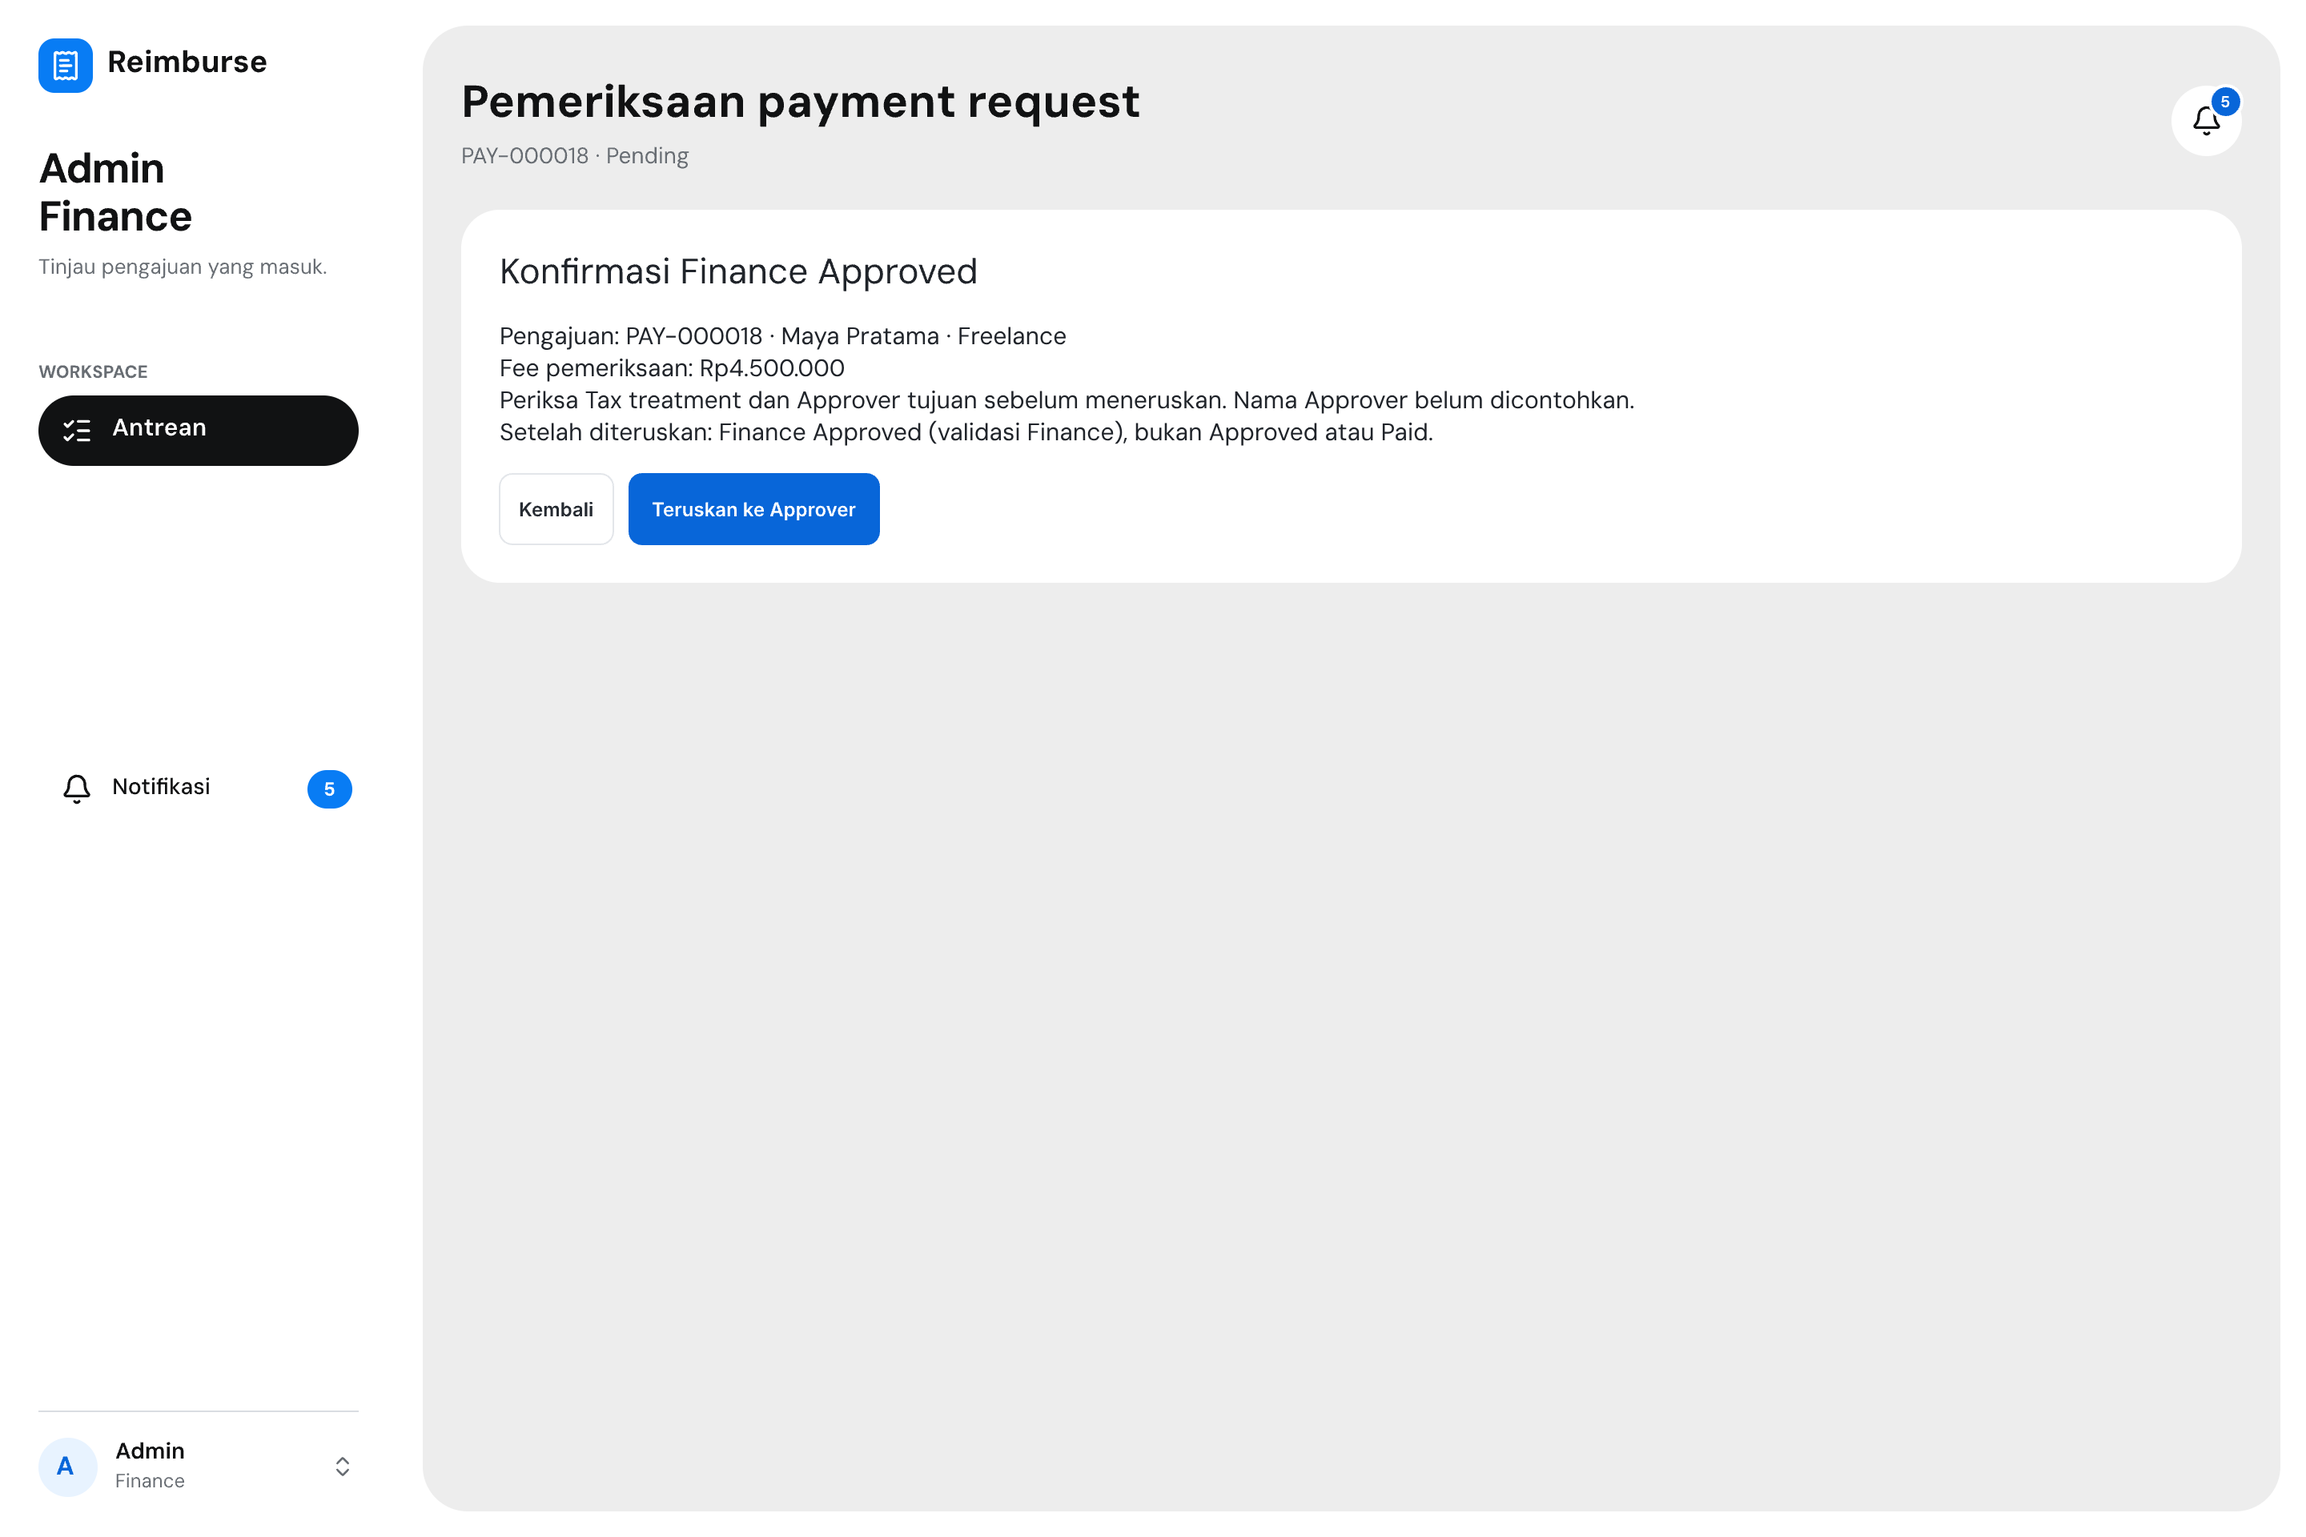
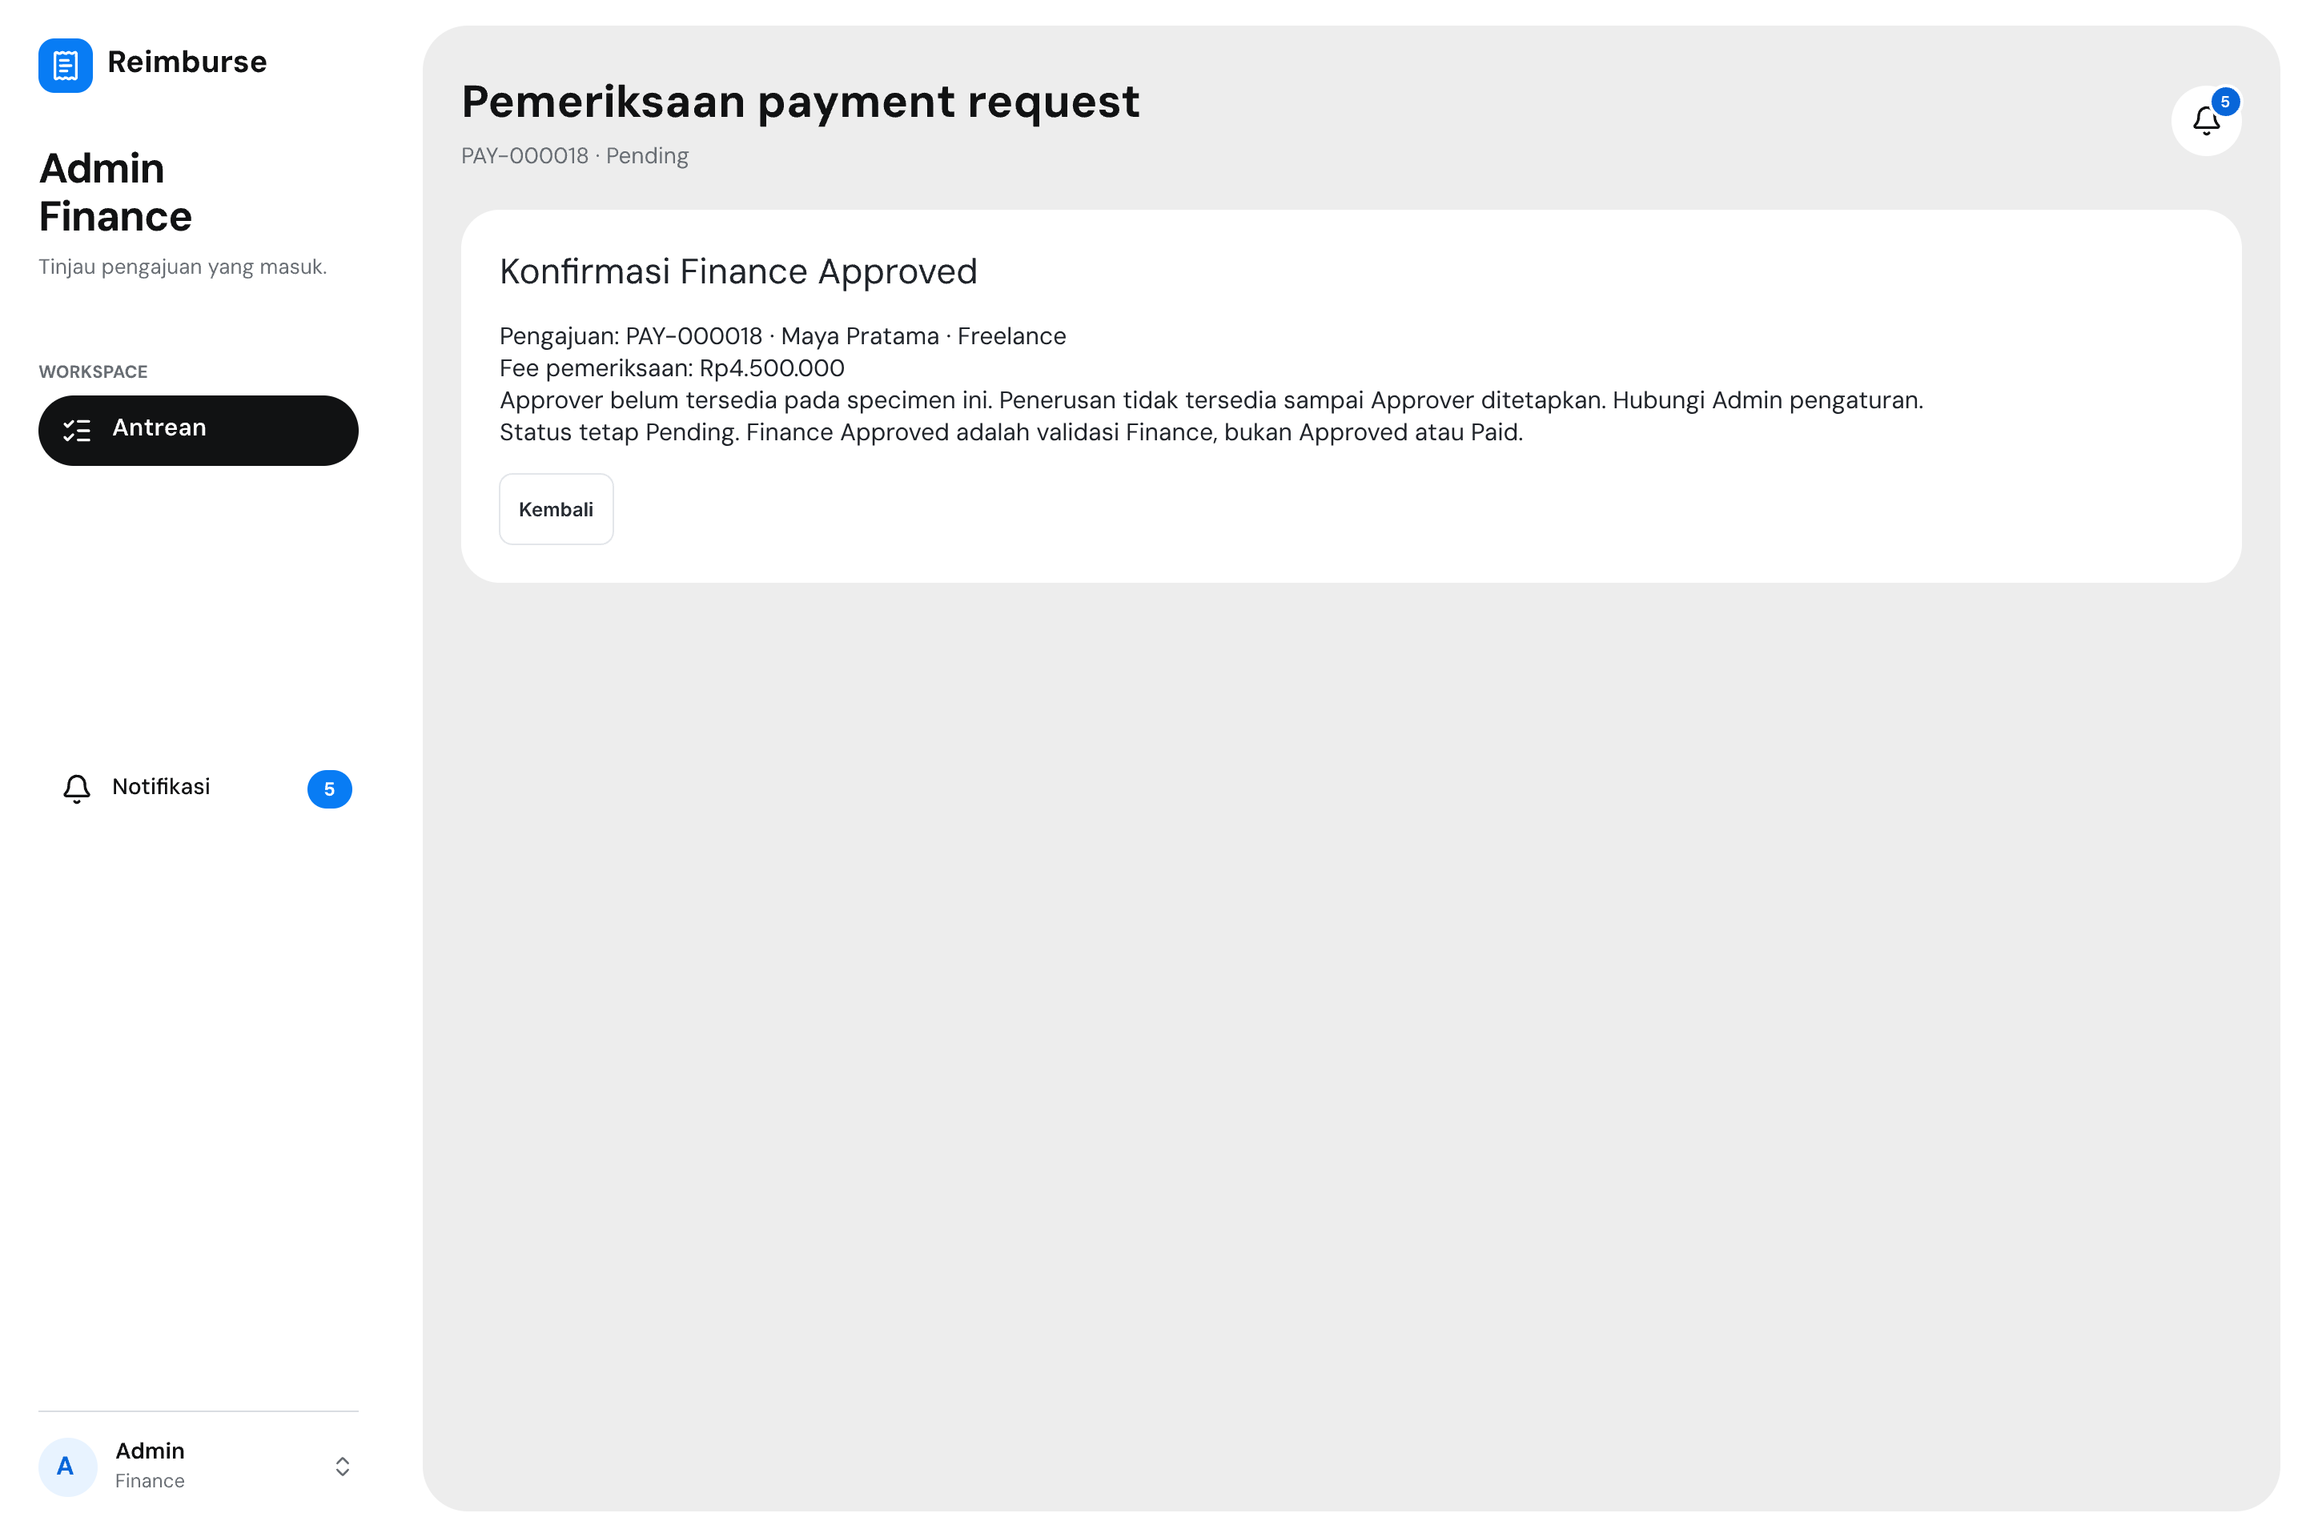
fix(design): refresh PG-08 galleries and gate forwarding

Changed region(s): [[0.2188, 0.25, 0.8125, 0.375]]

diff --git a/design/png/admin-finance-review/README.md b/design/png/admin-finance-review/README.md
@@ -4,12 +4,56 @@ PG-06 is **Ready for Owner Review**, not Approved. PG-04 queue and PG-10 remain 
 
 ## PG-08 Admin Finance: patch teks/state
 
[2 lines of base64/hex data omitted]
+
+### Koreksi lanjutan PR #19: galeri dan gate Approver
+
+Koreksi ini berangkat dari HEAD `f142a49062c68737f6ac62c3b031c954f914ad33` pada branch yang sama, `design/admin-finance-pg08`. Working tree awal bersih. Tidak membuka branch/PR baru, tidak menyentuh PR #17, tidak merge.
+
+**1. TERBUKTI: artefak galeri basi.** Sebelum koreksi, `zVZZY.png` dan `U6TVT.png` masih byte-identik dengan artefak baseline `main@03d3acb`, sedangkan isi layer editable berubah pada pass pertama PG-08. Riwayat ekspor sebelumnya juga menyatakan kedua galeri belum disegarkan. Ini verifikasi provenance/layer, bukan kesimpulan pembacaan PNG. Contoh teks layer persis:
+- `zVZZY` → frame `iPcOE`, node `P7c7G`: baseline `Field terpilih dibuka untuk Requester; instruksi publik akan dikirim.`; kini `PAY-000018 · Maya Pratama\nField dibuka: Fee dan dokumen. Field lain tidak dibuka.\nInstruksi publik: belum diisi. Kembali dan isi instruksi sebelum meminta Revision.\nSetelah dikirim, status Revision. Catatan internal tidak dikirim ke Requester.` (notasi `\n` adalah pemisah baris).
+- `zVZZY` → frame `WAO0I`, node `v0vcM`: baseline `Nilai lama, nilai baru dan alasan akan dicatat dalam audit.`; kini memuat nilai lama Rp4.500.000 dan baru Rp4.400.000 serta alasan belum diisi, sesuai verifikasi pass pertama di bawah.
+- `zVZZY` → frame `OkzZU`, node `B72Kb`: baseline `Pengajuan yang ditolak tidak dapat diedit. Alasan penolakan akan dicatat.`; kini menyebut PAY-000018, Maya Pratama, alasan belum diisi, dan status Rejected.
+- `U6TVT` → frame `eGvPW`, node `S39Jby`: baseline `Freelance · Fee Rp4.500.000`; kini `PAY-000018\nFreelance · Maya Pratama · Fee Rp4.500.000`.
+- Empat konfirmasi Desktop (`c0W2bn`, `iPcOE`, `WAO0I`, `OkzZU`) memang tile langsung `zVZZY`; `eGvPW` tile langsung `U6TVT`. Pass pertama sebenarnya mengubah tujuh tile Desktop dan satu Narrow, bukan hanya empat tile total.
+
+**2. TERBUKTI: D2GU5 belum diblokir.** Frame `c0W2bn`, node tombol `D2GU5`, source `fFmN2`: sebelum patch properti `enabled` tidak disetel (**true efektif**), `opacity` tidak disetel (**1 efektif**), nama layer persis `Finance Approved`. Label `D2GU5/U7Cbs` persis `Teruskan ke Approver`; `eq2MD.enabled:false` hanya menyembunyikan ikon panah, bukan men-disable tombol. Explanation `y2pz3` sebelumnya persis:
+
+```text
+Pengajuan: PAY-000018 · Maya Pratama · Freelance
+Fee pemeriksaan: Rp4.500.000
+Periksa Tax treatment dan Approver tujuan sebelum meneruskan. Nama Approver belum dicontohkan.
+Setelah diteruskan: Finance Approved (validasi Finance), bukan Approved atau Paid.
+```
+
+Pembanding PG-06 `PRHXV/O8SGI4` persis `Penerusan tidak tersedia karena Approver belum ditetapkan. Hubungi Admin pengaturan.`; tidak ada tombol penerusan tampil pada frame itu. Nama yang belum dicontohkan bukan bukti konfigurasi runtime kosong. Sesuai permintaan owner, koreksi menyatakan kondisi unavailable secara eksplisit **pada specimen** dan menerapkan gate-nya, bukan mengarang nama Approver.
+
+Hanya **dua stored nodes diubah**:
+- `D2GU5`: `enabled:false`, `opacity:0.45`, nama layer `Teruskan ke Approver · disabled specimen · Approver belum tersedia`. Label tetap `Teruskan ke Approver`. Dalam schema Pen, `enabled:false` berarti node tidak dirender; aksi penerusan tidak tampil, mengikuti PRHXV, bukan sekadar tombol aktif yang diredupkan. Ini bukan bukti disabled/authorization runtime.
+- `y2pz3`, teks sesudah patch persis:
+
+```text
+Pengajuan: PAY-000018 · Maya Pratama · Freelance
+Fee pemeriksaan: Rp4.500.000
+Approver belum tersedia pada specimen ini. Penerusan tidak tersedia sampai Approver ditetapkan. Hubungi Admin pengaturan.
+Status tetap Pending. Finance Approved adalah validasi Finance, bukan Approved atau Paid.
+```
+
+**Komposisi galeri mekanis, tanpa upscale:**
+- Ekspor langsung `zVZZY` pada scale 2 meminta **12320×6480**, tetapi exporter menghasilkan **8192×4309** karena batas 8192px. Hasil capped hanya pengujian temporer, tidak dipakai sebagai tile/heading atau output akhir.
+- `zVZZY.png` akhir **12320×6480**: 12 tile Desktop native **2880×1920** pada posisi `(2x,2y)` dari frame kanvas, ditambah cached heading `PgoGm`, teks `ADMIN FINANCE · PG-08 / Desktop`, native **946×56** pada `(80,60)`.
+- `U6TVT.png` akhir **5800×2100**: dua tile Narrow native **780×1688** pada `(80,200)` dan `(1020,200)`, ditambah cached heading `lftOV`, teks `ADMIN FINANCE · PG-08 / Narrow`, native **922×51** pada `(80,60)`.
+- Tile yang sudah tersedia 2× dipakai langsung dari PNG individual terbaru: `c0W2bn` (setelah patch gate), `iPcOE`, `WAO0I`, `OkzZU`, `HP1TH`, `Y9z8O`, `Z31zwX`, `eGvPW`. Enam tile yang cache-nya masih 1×/belum ada (`L4uNC`, `LjcEB`, `HDq48`, `xpoXz`, `F1maXE`, `QB9Kq`) dan dua heading dirender native 2× ke cache temporer untuk input komposisi saja. PNG individual lain di repo tidak ditimpa/di-commit. Heading lama galeri 0,5× tidak di-upscale.
+- ImageMagick menyusun sRGB RGBA dengan `Copy` pada latar transparan, tanpa operasi resize. Semua **14 crop tile + 2 crop heading** dibandingkan kembali dengan inputnya menggunakan `magick compare -metric AE`: masing-masing **0 (0)**, pixel-identik. Dimensi dan posisi mengikuti schema, bukan tebakan dari PNG.
+
+**Output tambahan yang berubah hanya tiga PNG:** `c0W2bn.png`, `zVZZY.png`, `U6TVT.png`. Galeri tidak lagi historis/basi untuk PG-08. Tidak ada node baru, perubahan source reusable, variabel global, dimensi/layout, atau PG-02/04/06. Bounds konten tampil `c0W2bn` tidak bermasalah; section keputusan diperiksa melalui screenshot live. Fingerprint live/disk dua node dan scope diff diperiksa sebelum commit. Tidak ada perubahan editor tambahan yang ikut di-stage.
+
+Tidak diverifikasi ulang: runtime/API/authorization, persistensi, kalkulasi pajak, keyboard/focus, screen reader, contrast numerik, atau konfigurasi Approver nyata. Kesimpulan enabled-state berasal dari node/schema, bukan PNG.
 
 ### Verifikasi sebelum patch: layer editable, bukan PNG
 
 1. **TERBUKTI: identitas Narrow kurang.** `L4uNC/lin72/kpCLO` = `PAY-000018 · Pending`; `L4uNC/r7hPY` = `Freelance · Maya Pratama · Fee Rp4.500.000`. `eGvPW/S39Jby` hanya `Freelance · Fee Rp4.500.000`. Pembacaan seluruh teks Narrow tidak menemukan nomor pengajuan atau nama penerima: yang hilang dibanding Desktop adalah **PAY-000018** dan **Maya Pratama**, bukan field wajib baru.
-2. **TERBUKTI: konfirmasi Finance Approved umum.** `c0W2bn/y2pz3` = `Validasi Finance selesai. Pengajuan akan diteruskan kepada Approver yang ditetapkan.`; `D2GU5/U7Cbs` = `Finance Approved`. Tidak ada fee pemeriksaan/nama Approver. Pembanding PG-06 `AvxAT`: `Gfoq2` = `Rp1.250.000`; `lEniw` = `Sari A.`; `hOz7b/U7Cbs` = `Teruskan ke Approver`. **TIDAK TERBUKTI** selected fields, nilai lama/baru, dan alasan adalah isi konfirmasi Finance Approved PG-06: itu isi state Revision/koreksi yang berbeda. Patch memperjelas identitas, fee, aksi, serta membedakan validasi Finance dari Approved/Paid. **Nama target Approver PG-08 tetap belum tersedia**, tidak diisi dengan Sari A. dari layanan lain. Copy menyatakan keterbatasan ini; bukan klaim Approver belum terkonfigurasi.
+2. **TERBUKTI: konfirmasi Finance Approved umum.** `c0W2bn/y2pz3` = `Validasi Finance selesai. Pengajuan akan diteruskan kepada Approver yang ditetapkan.`; `D2GU5/U7Cbs` = `Finance Approved`. Tidak ada fee pemeriksaan/nama Approver. Pembanding PG-06 `AvxAT`: `Gfoq2` = `Rp1.250.000`; `lEniw` = `Sari A.`; `hOz7b/U7Cbs` = `Teruskan ke Approver`. **TIDAK TERBUKTI** selected fields, nilai lama/baru, dan alasan adalah isi konfirmasi Finance Approved PG-06: itu isi state Revision/koreksi yang berbeda. Patch memperjelas identitas, fee, aksi, serta membedakan validasi Finance dari Approved/Paid. Pada pass pertama, **nama target Approver PG-08 belum tersedia**, tidak diisi dengan Sari A. dari layanan lain. Koreksi lanjutan di atas kemudian mengubahnya menjadi specimen unavailable dengan gate penerusan eksplisit; bukan klaim konfigurasi runtime.
 3. **TERBUKTI: konfirmasi Revision/Reject umum.** `iPcOE/P7c7G` = `Field terpilih dibuka untuk Requester; instruksi publik akan dikirim.`; tombol `h3Mer/U7Cbs` = `Konfirmasi`. Form `LjcEB/kQ4mR` = `Fee dan dokumen`, berada dalam `UVFMr` (Revision selection), dengan `KEiKJ` (Selected checkbox, icon `square-check`). Namun `xdABN/P9sHXg` = `Jelaskan perubahan yang diminta`, masih placeholder. PG-06 `QdWeP/Iqaqm` = `Invoice dan bukti`, `I7hWfo` = `Mohon unggah invoice yang terbaca jelas.`; instruksi itu tidak dipinjam ke Payment Request. `OkzZU/B72Kb` = `Pengajuan yang ditolak tidak dapat diedit. Alasan penolakan akan dicatat.`; tombol `NGXDk/U7Cbs` = `Konfirmasi`; form `xpoXz/x8wNO/P9sHXg` = `Jelaskan alasan penolakan`, masih placeholder. **TIDAK TERBUKTI** Reject seharusnya membuka field: PRD menyatakan Rejected tidak dapat diedit. Patch menampilkan kelompok yang benar-benar dipilih dan kekosongan instruksi/alasan; tidak mengarang isi publik. Tiga tombol konfirmasi incomplete ditandai disabled secara visual/layer-state saja, bukan runtime controls.
 4. **TIDAK TERBUKTI: rate/nominal pajak karangan pada PG-08 yang diperiksa.** `HDq48/NEjaB` = `Fee contoh Rp4.400.000; pajak dihitung sesuai Tax treatment aktif.`; `L4uNC/FDDBH/orwNG` dan `eGvPW/EdEFJ/orwNG` = `Pilih aturan aktif`. Tidak ditemukan rate persen, nominal pajak, atau net payout fiktif. Rp4.500.000/Rp4.400.000 adalah fee contoh. Tax treatment, rate, kalkulasi, dan gate tidak diubah atau ditambahkan.
 5. **TIDAK TERBUKTI: akses dokumen sensitif diperluas pada specimen PG-08.** `L4uNC/xswZY` = `KTP dan rekening · akses Admin · Lihat sesuai izin`; `AmXSS/GvpjL` = `Lihat KTP / rekening · Admin`. `eGvPW/xzKJL` = `KTP dan rekening · Admin · lihat sesuai izin`; `xjs7l/GvpjL` = `Lihat KTP / rekening · Admin`. `HP1TH/vsRO7`, `Y9z8O/uLxB3`, `Z31zwX/emc6l` memakai teks akses Admin yang sama dengan Desktop; tombol `i9qZ1/GvpjL`, `qlAG8/GvpjL`, `d7bGOE/GvpjL` juga `Lihat KTP / rekening · Admin`. Tidak ada specimen PG-08 Approver/Requester yang memperluas izin tersebut. Tidak ada perubahan akses; authorization runtime belum diuji.
@@ -23,7 +67,7 @@ Temuan tambahan yang **TERBUKTI**:
 | Frame | Node | Hasil |
 | --- | --- | --- |
 | eGvPW | S39Jby | `PAY-000018`, lalu `Freelance · Maya Pratama · Fee Rp4.500.000` pada baris berikutnya |
-| c0W2bn | y2pz3, D2GU5/U7Cbs | Identitas dan Fee Rp4.500.000; periksa Tax treatment/Approver; nama Approver belum dicontohkan; setelah diteruskan Finance Approved (validasi Finance), bukan Approved/Paid; aksi `Teruskan ke Approver` |
+| c0W2bn | y2pz3, D2GU5/U7Cbs; D2GU5 pada koreksi lanjutan | Identitas dan Fee Rp4.500.000; kini Approver unavailable pada specimen dan penerusan diblokir; status tetap Pending. Label aksi tetap `Teruskan ke Approver`, tetapi `D2GU5.enabled:false`; rincian gate di atas |
 | iPcOE | P7c7G, h3Mer/U7Cbs, h3Mer | Identitas, `Field dibuka: Fee dan dokumen. Field lain tidak dibuka.`, instruksi publik belum diisi; setelah dikirim status Revision, catatan internal tidak dikirim; aksi `Minta Revision`, opacity 0.45, nama layer disabled specimen |
 | WAO0I | v0vcM, s8e4r/U7Cbs, s8e4r | Identitas, Fee Rp4.500.000 → Rp4.400.000; alasan belum diisi; koreksi tidak meneruskan, tetap Pending; audit lama/baru/actor/waktu/alasan; aksi `Simpan koreksi`, opacity 0.45, nama layer disabled specimen |
 | OkzZU | B72Kb, NGXDk/U7Cbs, NGXDk | Identitas, alasan penolakan belum diisi; setelah ditolak Rejected/tidak dapat diedit; Reject tidak membuka field Revision; aksi `Tolak pengajuan`, opacity 0.45, nama layer disabled specimen |
@@ -35,7 +79,7 @@ Temuan tambahan yang **TERBUKTI**:
 
 ### Ekspor dan pemeriksaan
 
-Hanya **8 frame berubah** yang diekspor, masing-masing PNG native 2×: [eGvPW](eGvPW.png) (780×1688); [c0W2bn](c0W2bn.png), [iPcOE](iPcOE.png), [WAO0I](WAO0I.png), [OkzZU](OkzZU.png), [HP1TH](HP1TH.png), [Y9z8O](Y9z8O.png), [Z31zwX](Z31zwX.png) (2880×1920). Empat PNG konfirmasi sebelumnya belum ada di paket; frame-nya sudah ada, tidak dibuat ulang. Ekspor lama eGvPW/vendor proof berukuran 1×; ekspor baru dirender native 2×, bukan upscale PNG lama. `L4uNC`, `HDq48`, `LjcEB`, `QB9Kq` tidak berubah/tidak diekspor. Galeri `zVZZY`/`U6TVT` tidak diekspor; PNG galerinya tetap historis.
+Pada pass pertama, hanya **8 frame berubah** yang diekspor, masing-masing PNG native 2×: [eGvPW](eGvPW.png) (780×1688); [c0W2bn](c0W2bn.png), [iPcOE](iPcOE.png), [WAO0I](WAO0I.png), [OkzZU](OkzZU.png), [HP1TH](HP1TH.png), [Y9z8O](Y9z8O.png), [Z31zwX](Z31zwX.png) (2880×1920). Empat PNG konfirmasi sebelumnya belum ada di paket; frame-nya sudah ada, tidak dibuat ulang. Ekspor lama eGvPW/vendor proof berukuran 1×; ekspor baru dirender native 2×, bukan upscale PNG lama. `L4uNC`, `HDq48`, `LjcEB`, `QB9Kq` tidak berubah/tidak diekspor. Galeri `zVZZY`/`U6TVT` belum diekspor pada pass pertama; keduanya kini disegarkan melalui komposisi native 2× pada koreksi lanjutan di atas.
 
 Checklist:
 - Tepat **12 stored nodes** berubah (12 teks/instance-content dan tambahan nama/opacity pada tiga ref tombol yang sama). Tidak ada ID/node/source/ref baru, penghapusan, perubahan children/order, layout/dimensi/typography, atau variabel global.
